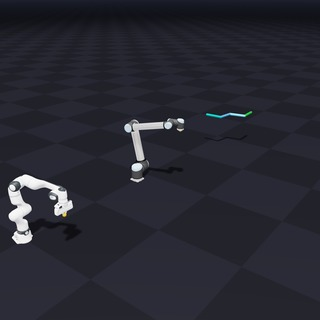
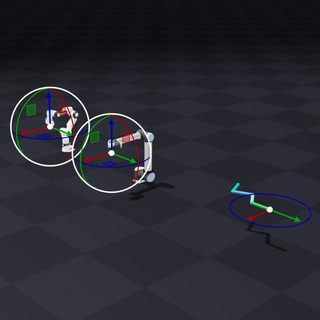
better image - less reactive controller.

diff --git a/newton/_src/controllers/impl/_common.py b/newton/_src/controllers/impl/_common.py
@@ -157,9 +157,9 @@ def _shift_jacobian_to_tool_kernel(
 
 @wp.kernel
 def _null_space_projector_kernel(
-    jacobian_tool_world: wp.array3d[
+    jacobian_tool: wp.array3d[
         float
-    ],  # (robot_count, 6, max_dofs) columns are twists about the tool point, in world coords
+    ],  # (robot_count, 6, max_dofs) columns are per-DOF twists about the tool point, in the caller's task frame
     jacobian_pinv_transpose: wp.array3d[
         float
     ],  # (robot_count, 6, max_dofs) either pseudo-inverse-transpose variant; zero beyond dof_count
@@ -170,6 +170,11 @@ def _null_space_projector_kernel(
     ],  # (robot_count, max_dofs, max_dofs) = I - J^T @ jacobian_pinv_transpose; untouched beyond dof_count
 ):
     """The null-space projector, ``N = I - J^T @ jacobian_pinv_transpose``.
+
+    Frame-agnostic: ``jacobian_tool`` and ``jacobian_pinv_transpose`` just
+    need to be expressed in the same frame as each other, whatever that is
+    (e.g. world for differential IK, the operational frame for hybrid
+    force/motion control).
 
     A joint torque built as ``N @ M @ a``, for any joint acceleration ``a``
     and the joint-space mass matrix ``M``, produces zero task-space
@@ -193,7 +198,7 @@ def _null_space_projector_kernel(
 
     total = float(0.0)
     for k in range(6):
-        total += jacobian_tool_world[robot_idx, k, row] * jacobian_pinv_transpose[robot_idx, k, col]
+        total += jacobian_tool[robot_idx, k, row] * jacobian_pinv_transpose[robot_idx, k, col]
     null_space_projector[robot_idx, row, col] = identity_entry - total
 
 
@@ -291,20 +296,26 @@ def _apply_spatial_matrix_kernel(
 @wp.kernel
 def _task_matrix_times_jacobian_kernel(
     task_matrix: wp.array3d[float],  # (robot_count, 6, 6) symmetric task-space matrix, e.g. a 6x6 inverse
-    jacobian_tool_world: wp.array3d[
+    jacobian_tool: wp.array3d[
         float
-    ],  # (robot_count, 6, max_dofs) columns are twists about the tool point, in world coords
+    ],  # (robot_count, 6, max_dofs) columns are per-DOF twists about the tool point, in the caller's task frame
     dof_count: wp.array[wp.int32],  # (robot_count,) number of controlled DOFs for each robot
     # outputs
-    result: wp.array3d[float],  # (robot_count, 6, max_dofs) = task_matrix @ jacobian_tool_world; zero beyond dof_count
+    result: wp.array3d[float],  # (robot_count, 6, max_dofs) = task_matrix @ jacobian_tool; zero beyond dof_count
 ):
-    """Multiply a 6x6 task-space matrix by a tool-point Jacobian, ``result = task_matrix @ jacobian_tool_world``."""
+    """Multiply a 6x6 task-space matrix by a tool-point Jacobian, ``result = task_matrix @ jacobian_tool``.
+
+    Frame-agnostic: ``task_matrix`` and ``jacobian_tool`` just need to be
+    expressed in the same frame as each other, whatever that is (e.g. world
+    for differential IK, the operational frame for hybrid force/motion
+    control).
+    """
     robot_idx, row, col = wp.tid()
     if col >= dof_count[robot_idx]:
         return
     total = float(0.0)
     for task_axis in range(6):
-        total += task_matrix[robot_idx, row, task_axis] * jacobian_tool_world[robot_idx, task_axis, col]
+        total += task_matrix[robot_idx, row, task_axis] * jacobian_tool[robot_idx, task_axis, col]
     result[robot_idx, row, col] = total
 
 

diff --git a/newton/examples/controllers/example_controller_differential_ik.py b/newton/examples/controllers/example_controller_differential_ik.py
@@ -83,7 +83,7 @@ PLANAR_AXIS_WEIGHT = wp.spatial_vector(1.0, 1.0, 0.0, 0.0, 0.0, 1.0)
 JOINT_TARGET_KE = 3000.0
 JOINT_TARGET_KD = 100.0
 
-BANDWIDTH = 20.0
+BANDWIDTH = 5.0
 # Empirically tuned against this example's continuous velocity-based control
 # loop (see IkMethod.ADAPTIVE_DAMPING).
 ADAPTIVE_DAMPING_MIN = 0.02
@@ -202,8 +202,6 @@ class Example:
             wp.transform(*body_q_np[ur10_tool_body].tolist()) * ur10_tool_site_transform,
             wp.transform(*body_q_np[planar_tool_body].tolist()) * planar_tool_site_transform,
         ]
-        # Only the planar arm's gizmo is axis-restricted -- Franka's and
-        # UR10's keep the default full 6-DOF widget (None = every axis).
         self.gizmo_axes = [
             {"translate": None, "rotate": None},
             {"translate": None, "rotate": None},
